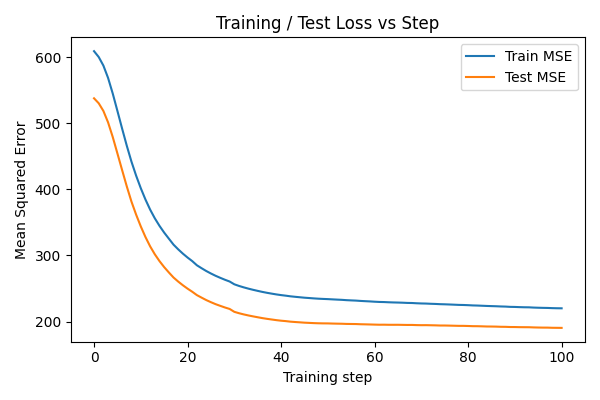
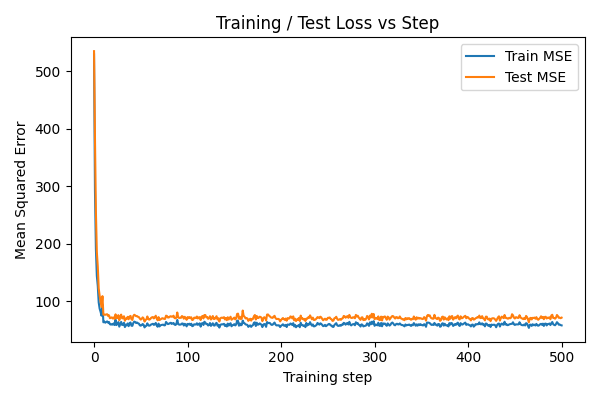
add_uci

diff --git a/mfld.py b/mfld.py
@@ -15,12 +15,38 @@ from jaxtyping import Array
 from jax_tqdm import scan_tqdm
 
 
+def initialize(key, d_in, d_hidden, d_out):
+    """PyTorch-like initialization for a 2-layer tanh MLP."""
+    k1, k2 = jax.random.split(key)
+    k3, k4 = jax.random.split(k2)
+
+    # Layer 1: Linear(d_in, d_hidden)
+    # bound1 = jnp.sqrt(1.0 / d_in)
+    bound1 = 1
+    # W1 = jax.random.uniform(k1, (d_in, d_hidden), minval=-bound1, maxval=bound1)
+    W1 = jax.random.normal(k1, (d_in, d_hidden)) * bound1
+    # b1 = jnp.zeros((d_hidden,))
+    b1 = jax.random.normal(k2, (d_hidden,)) * bound1
+
+    # Layer 2: Linear(d_hidden, d_out)
+    # bound2 = jnp.sqrt(1.0 / d_hidden)
+    bound2 = 1
+    # W2 = jax.random.uniform(k2, (d_hidden, d_out), minval=-bound2, maxval=bound2)
+    W2 = jax.random.normal(k3, (d_hidden, d_out)) * bound2
+    # b2 = jnp.zeros((d_out,))
+    b2 = jax.random.normal(k4, (d_hidden, )) * bound2
+    return W1, b1, W2, b2
+
+
+
+
 # ----------------------- Simulator class -----------------------
 class MFLD:
     def __init__(self, cfg: CFG, problem: Problem):
         self.cfg = cfg
         self.problem = problem
         self.data = problem.data
+        self.counter = 0
 
         # Build vmapped helpers once (static w.r.t. self)
         self._vm_q1 = jax.vmap(jax.vmap(self.problem.q1, in_axes=(None, 0)), in_axes=(0, None))  # (N,d) -> (N,)
@@ -39,14 +65,17 @@ class MFLD:
     @partial(jit, static_argnums=0)
     def vector_field(self, x: Array) -> Array:
         # First term: R1'(E[q1]) * ∇q1(x)
-        s = self._vm_q1(self.data["Z"], x) - self.data["y"][:, None]  # (n, N)
+        s = self._vm_q1(self.data["Z"][self.counter, ...], x) - self.data["y"][self.counter, ...][:, None]  # (n, N)
         coeff = self.problem.R1_prime(s)            
-        term1 = coeff[:, :, None] * self._vm_grad_q1(self.data["Z"], x)       # (n, N, d)
+        term1 = coeff[:, :, None] * self._vm_grad_q1(self.data["Z"][self.counter, ...], x)       # (n, N, d)
         term1_mean = jnp.mean(term1, axis=0)               # (N,d)
+
         # Second term: mean over j of ∇_x q2(x_i, x_j)
         gx = self._all_pairs_gx(x)                   # (N,N,d)
         term2 = jnp.mean(gx, axis=1)                 # (N,d)
-        return term1_mean + term2
+        # Regularization 
+        term3 = self.cfg.zeta * x
+        return term1_mean + term2 + term3
 
     
     @partial(jit, static_argnums=0)
@@ -57,13 +86,16 @@ class MFLD:
         key, sub = random.split(key)
         noise = noise_scale * random.normal(sub, shape=x.shape)
         x_next = x - self.cfg.step_size * v + noise
+        self.counter = (self.counter + 1) % self.data["batch_size"]
         return (x_next, key), x_next
 
     def simulate(self, x0: Optional[Array] = None) -> Array:
         key = random.PRNGKey(self.cfg.seed)
         if x0 is None:
             key, sub = random.split(key)
-            x0 = 0.5 * random.normal(sub, (self.cfg.N, self.problem.d))
+            # x0 = 0.5 * random.normal(sub, (self.cfg.N, self.problem.particle_d)) * 0.1
+            W1_0, b1_0, W2_0, b2_0 = initialize(key, self.problem.data_d, d_hidden=self.cfg.N, d_out=1)
+            x0 = jnp.concatenate([W1_0.T, b1_0[:, None], W2_0, b2_0[:, None]], axis=1)  # (N, d)
 
         scan_fn = scan_tqdm(self.cfg.steps)(self._step)
         (xT, _), path = lax.scan(scan_fn, (x0, key), jnp.arange(self.cfg.steps))
@@ -72,3 +104,6 @@ class MFLD:
             # Include initial state for convenience
             return jnp.concatenate([x0[None, ...], path], axis=0)  # (steps+1, N, d)
         return xT
+
+
+

diff --git a/main.py b/main.py
@@ -5,6 +5,8 @@ from utils.datasets import load_boston
 import jax.numpy as jnp
 import jax
 from tqdm import tqdm
+from jax import lax
+
 
 def R1_prime(s):  # R1(s)=0.5*s^2
     return s
@@ -13,16 +15,16 @@ def q1_nn(z, x):
     # Simple 2-layer NN for demonstration
     d_hidden = x.shape[0] - 3
     W1, b1, W2, b2 = x[:d_hidden], x[d_hidden+1], x[d_hidden+2], x[d_hidden+3]
-    # assert W1.shape[0] == z.shape[0]
     h = jnp.tanh(z @ W1 + b1)
     return jnp.dot(W2, h) + b2
 
 
-data = load_boston(standardize_X=True, standardize_y=False)
+data = load_boston(batch_size=64, standardize_X=True, standardize_y=False)
 
 
 problem_nn = Problem(
-    d = data["Z"].shape[1] + 3, 
+    particle_d=data["Z"].shape[-1] + 3,  # NN params dimension
+    data_d=data["Z"].shape[-1],
     R1_prime=R1_prime,
     q1=q1_nn,
     q2=None,
@@ -34,13 +36,14 @@ problem_nn = Problem(
 if __name__ == "__main__":
     # jax.config.update("jax_enable_x64", True)  # optional for stability
 
-    cfg = CFG(N=64, steps=5000, step_size=1e-3, sigma=0.001, seed=0, return_path=True)
+    cfg = CFG(N=128, steps=50000, step_size=1.0, sigma=1.0, zeta=1e-2, seed=0, return_path=True)
     sim = MFLD(cfg, problem_nn)
     xT = sim.simulate()
 
-    def compute_mse(X, y, params):
+    def compute_mse(Z, y, params):
         """Compute MSE for a given parameter vector `params`."""
-        preds = jax.vmap(q1_nn, in_axes=(None, 0))(X, params).mean(axis=0)
+        preds_all = jax.vmap(q1_nn, in_axes=(None, 0))(Z, params)
+        preds = preds_all.mean(axis=0)
         return jnp.mean((preds - y) ** 2)
 
     # Plotting code
@@ -48,15 +51,24 @@ if __name__ == "__main__":
 
     # vmap over particles
     loss_fn = lambda p: (
-        compute_mse(data["Z"], data["y"], p),
+        compute_mse(data["Z"][0, ...], data["y"][0, ...], p),
         compute_mse(data["Z_test"], data["y_test"], p)
     )
 
-    xT_subsampled = xT[::50]  # Subsample for plotting
-    train_losses, test_losses = jax.vmap(loss_fn)(xT_subsampled)
+    xT_subsampled = xT[::100]  # Subsample for plotting
+    # train_losses, test_losses = jax.vmap(loss_fn)(xT_subsampled)
+    outs = lax.map(lambda p: jnp.array(loss_fn(p)), xT_subsampled)  # (N, 2)
+    train_losses, test_losses = outs[:, 0], outs[:, 1]
 
     train_losses = jnp.array(train_losses)
     test_losses = jnp.array(test_losses)
+
+    print("Final Train pred:", jax.vmap(q1_nn, in_axes=(None, 0))(data["Z"][0, ...], xT_subsampled[-1]).mean(axis=0)[:10])
+    print("Final Train label:", data["y"][0, ...][:10])
+    print("Final Test pred:", jax.vmap(q1_nn, in_axes=(None, 0))(data["Z_test"], xT_subsampled[-1]).mean(axis=0)[:10])
+    print("Final Test label:", data["y_test"][:10])
+    print("Final Train MSE:", train_losses[-1])
+    print("Final Test MSE:", test_losses[-1])
 
     # ---- Plot ----
     import matplotlib.pyplot as plt

diff --git a/utils/datasets.py b/utils/datasets.py
@@ -6,7 +6,7 @@ import numpy as np
 import jax
 import jax.numpy as jnp
 
-def load_boston(test_size=0.2, seed=42, standardize_X=True, standardize_y=False):
+def load_boston(batch_size, test_size=0.2, seed=42, standardize_X=True, standardize_y=False):
     """
     Returns JAX arrays and (optionally) standardization stats.
     Shapes:
@@ -35,6 +35,16 @@ def load_boston(test_size=0.2, seed=42, standardize_X=True, standardize_y=False)
         y_tr = (y_tr - y_mean) / y_std
         y_te = (y_te - y_mean) / y_std
 
+    # Batch them
+    N = y_tr.shape[0]
+    num_batches = (N + batch_size - 1) // batch_size
+    pad = num_batches * batch_size - N
+    if pad > 0:
+        y_tr = jnp.pad(y_tr, ((0, pad), (0,0)), mode='edge')
+        X_tr = jnp.pad(X_tr, ((0, pad), (0,0)), mode='edge')
+    y_tr = y_tr.reshape(num_batches, batch_size, *y_tr.shape[1:])
+    X_tr = X_tr.reshape(num_batches, batch_size, *X_tr.shape[1:])
+
     # Convert to JAX arrays (targets flattened to shape (N,))
     out = {
         "Z": jnp.asarray(X_tr),
@@ -43,6 +53,7 @@ def load_boston(test_size=0.2, seed=42, standardize_X=True, standardize_y=False)
         "y_test":  jnp.asarray(y_te.squeeze(-1)),
         "z_stats": (jnp.asarray(x_mean.squeeze(0)), jnp.asarray(x_std.squeeze(0))),
         "y_stats": (jnp.asarray(y_mean.item()),     jnp.asarray(y_std.item())),
+        "batch_size": batch_size
     }
     return out
 

diff --git a/utils/configs.py b/utils/configs.py
@@ -14,6 +14,7 @@ class CFG:
     steps: int = 5000
     step_size: float = 1e-3
     sigma: float = 1.0
+    zeta : float = 1e-2
     seed: int = 0
     # Return full trajectory if True (memory heavy): (steps+1, N, d)
     return_path: bool = False

diff --git a/utils/problems.py b/utils/problems.py
@@ -9,7 +9,8 @@ from jaxtyping import Array
 @dataclass(frozen=True)
 class Problem:
     # R1' : R -> R
-    d: int
+    particle_d: int
+    data_d: int
     R1_prime: Callable[[Array], Array]
     # q1 : R^d -> R
     q1: Callable[[Array], Array]
